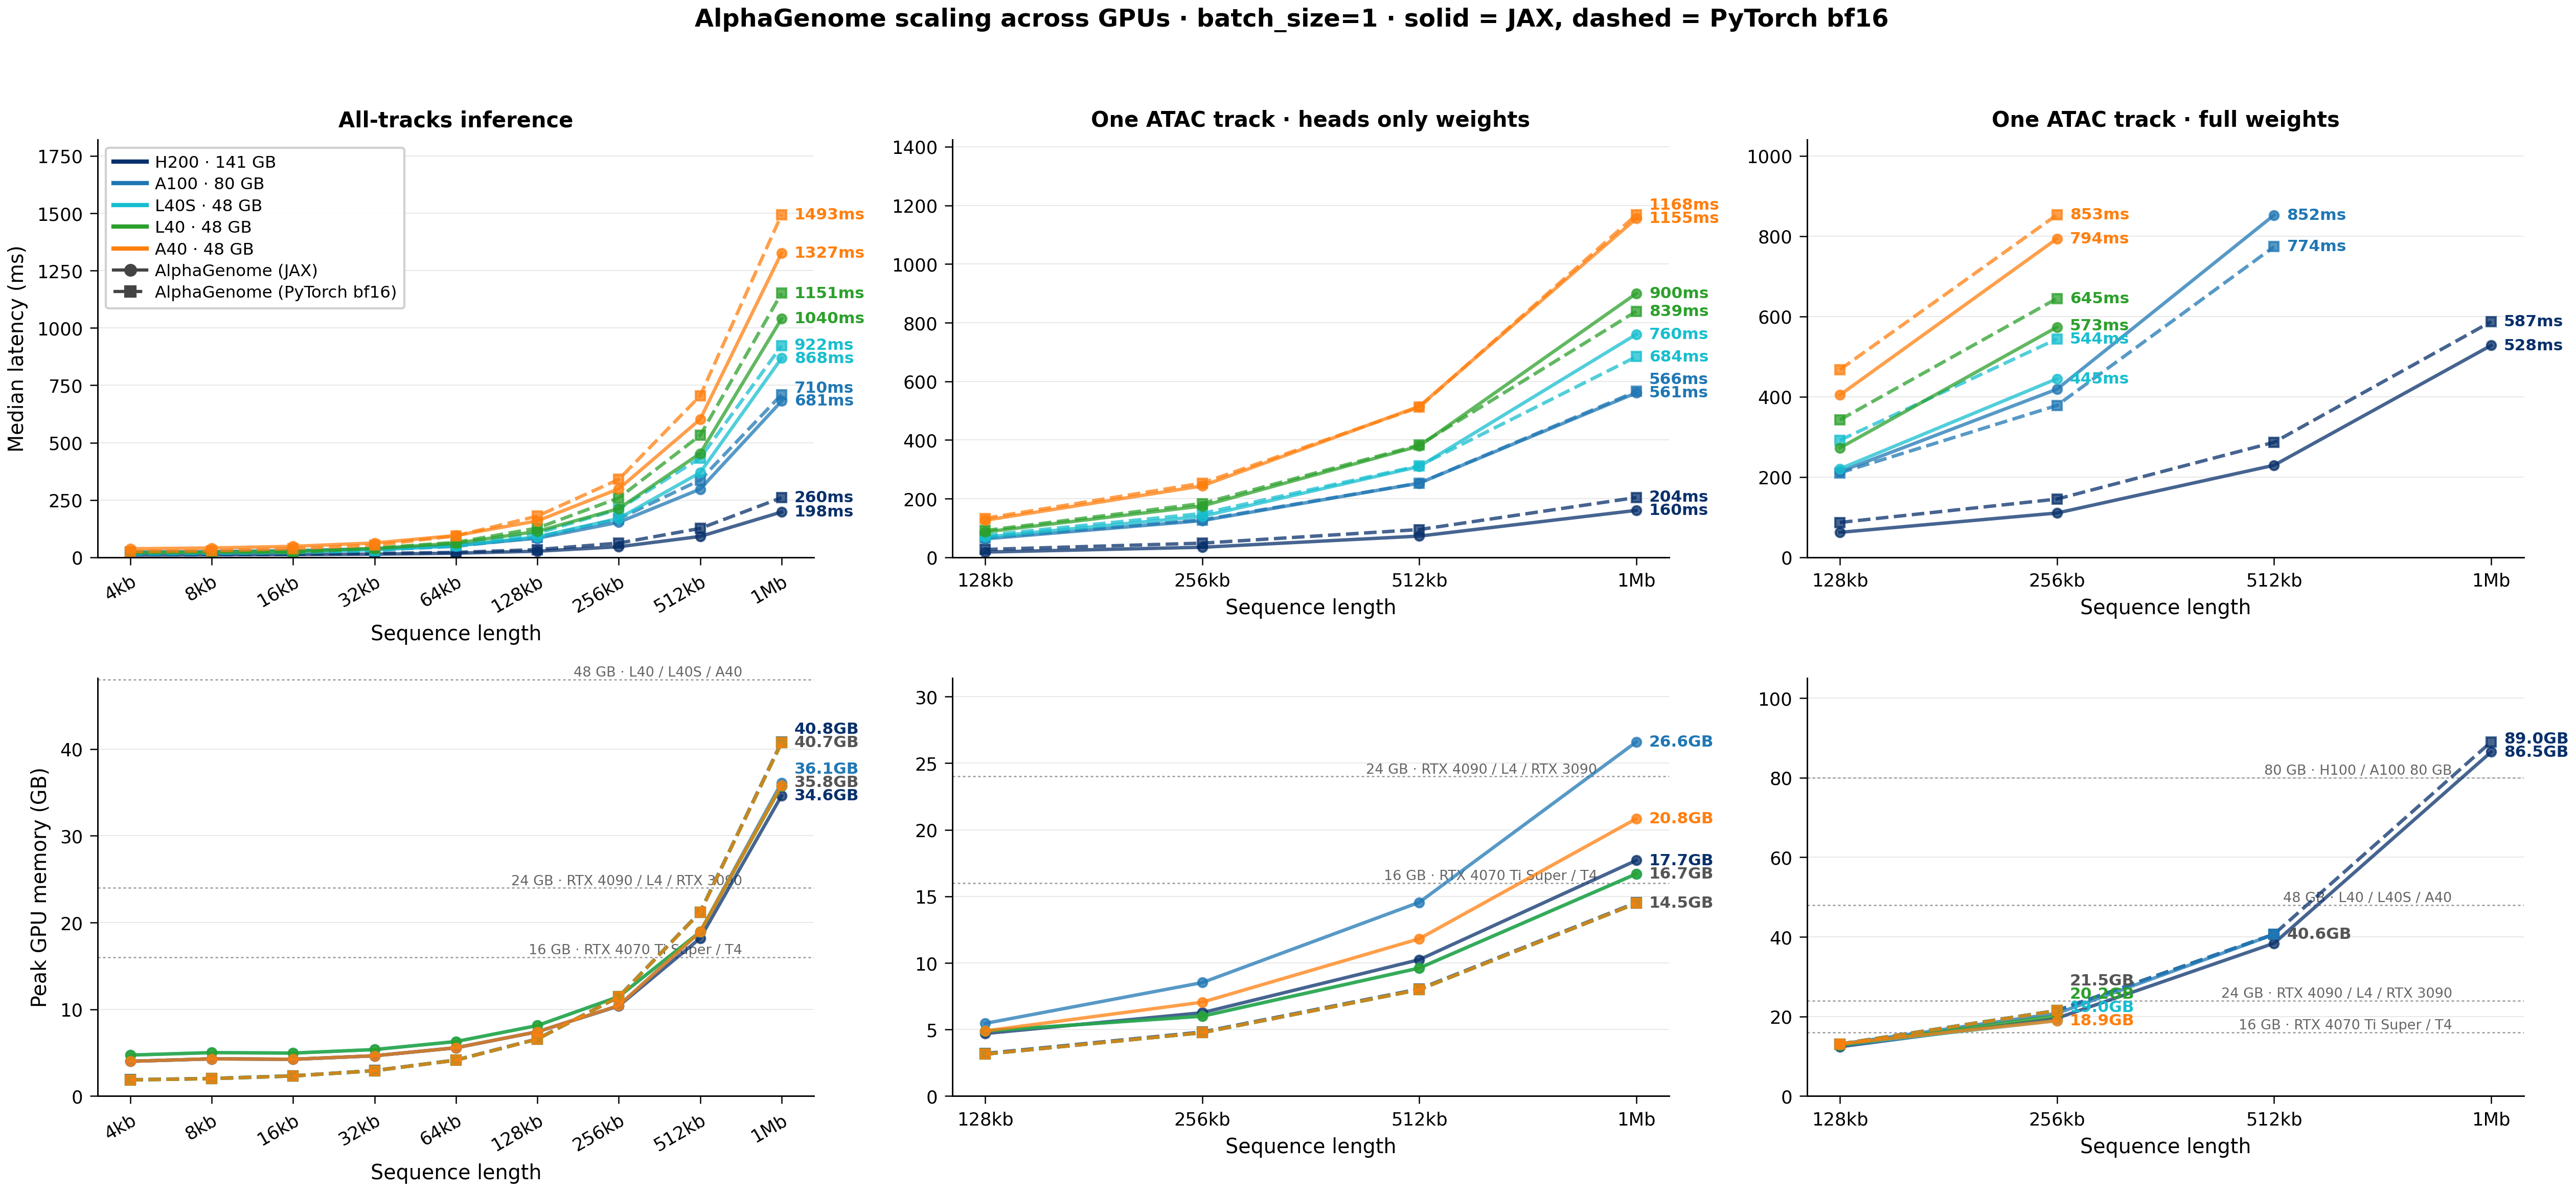
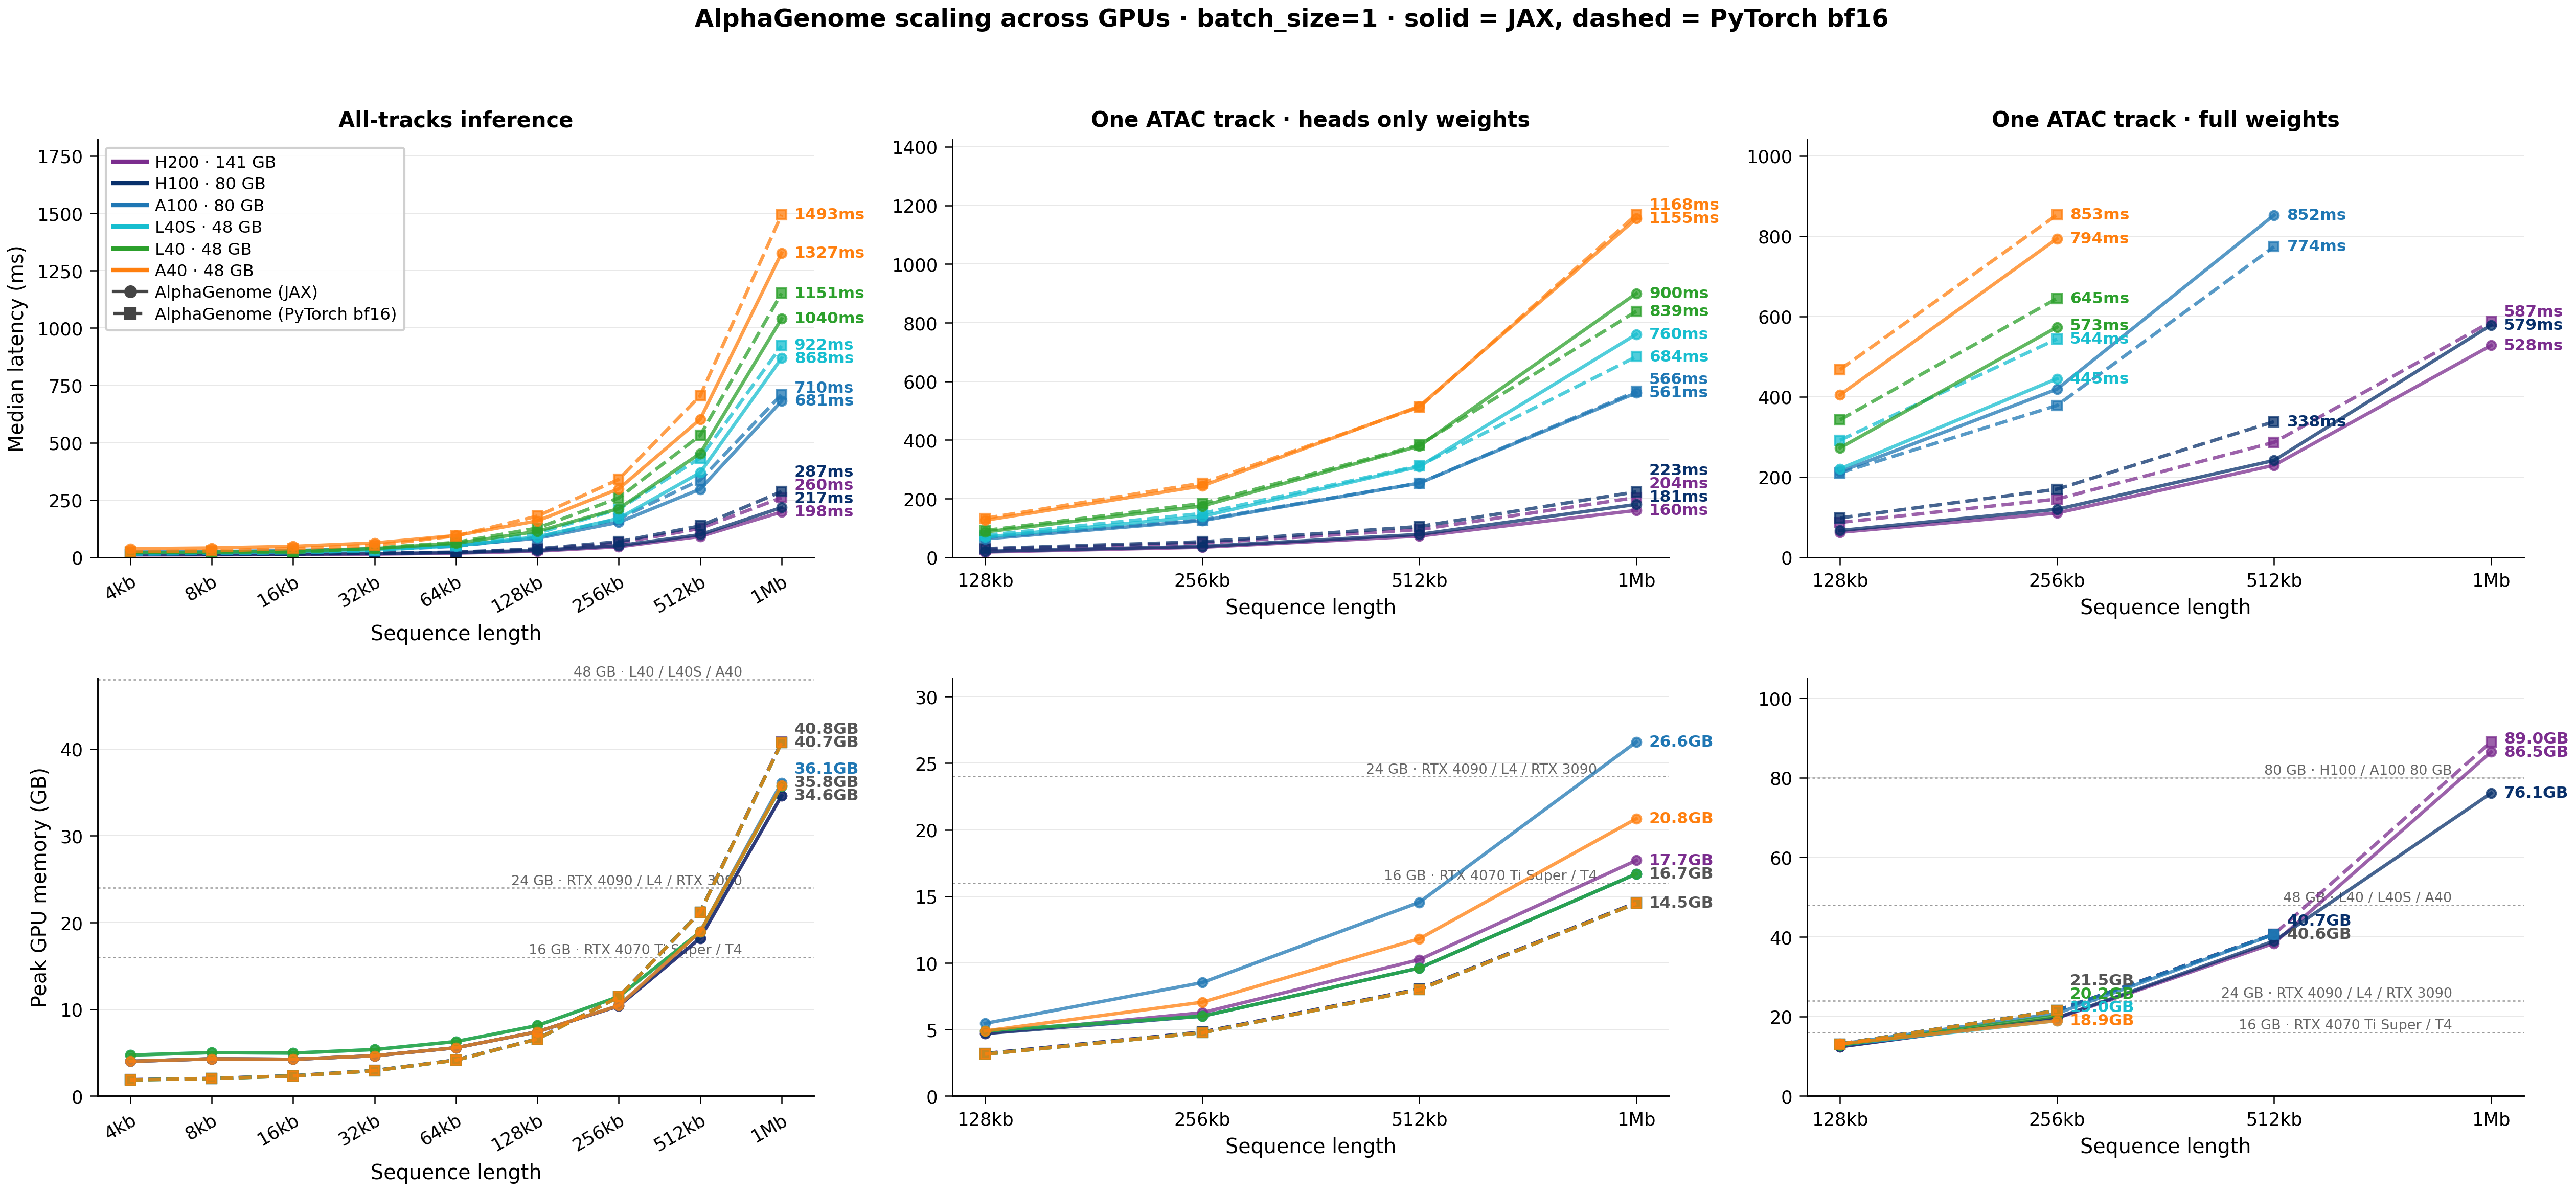
blog: replace benchmark post with main draft

diff --git a/content/blogs/2026-005/index.md b/content/blogs/2026-005/index.md
@@ -1,139 +1,284 @@
 ---
 post_id: "2026-005"
-title: "AlphaGenome inference in JAX and PyTorch: an apples-to-apples audit"
+title: "Benchmarking AlphaGenome on NVIDIA GPUs: latency, memory, and feasibility across sequence lengths"
 image: "cross_gpu_scaling.png"
 math: false
 
-authors: ["Xinming Tu"]
+authors: ["Xinming Tu", "Alejandro Buendia"]
 
 authors_display:
   - name: "Xinming Tu"
     affiliation: "University of Washington"
+  - name: "Alejandro Buendia"
+    affiliation: "Stanford University"
+    orcid: "0009-0001-6562-9876"
 
 editor: "Genomics X AI Editors"
 
-tags: ["genomics", "AlphaGenome", "JAX", "PyTorch", "benchmarking"]
+tags: ["genomics", "AlphaGenome", "JAX", "PyTorch", "benchmarking", "GPUs"]
 categories: ["Blog Post"]
 
 scope: ["insights"]
 audience: ["general"]
-labs: ["Genomics X AI"]
+labs: ["Kundaje lab"]
 
 status: "submitted"
-revision: 1
+revision: 2
 
-date_submitted: 2026-04-18
+date_submitted: 2026-04-12
 date_accepted:
-date: 2026-04-18
+date: 2026-04-15
 
 doi: ""
 revision_history:
   - version: 1
-    date: 2026-04-18
-    notes: "Initial submission"
+    date: 2026-04-12
+    notes: "Initial benchmark draft"
+  - version: 2
+    date: 2026-04-15
+    notes: "Updated with H100 results"
 ---
 
 {{< summary >}}
-This post revisits AlphaGenome inference benchmarking after fixing an invalid comparison in the PyTorch timing path.
+[AlphaGenome](https://deepmind.google/discover/blog/alphagenome-a-foundation-model-for-genome-biology/) pushes genomic modeling to sequence lengths up to `1 Mb`, but practical adoption still comes down to a simple question: what fits on the GPU you actually have, and how long will it take?
 
-The refreshed April 6-9, 2026 runs show that the old shorthand claim that "PyTorch is 2-3x slower than JAX" no longer holds. On the updated benchmark, JAX is still clearly faster on `H200`, and it is usually faster from `128 kb` onward on `A100`, `L40S`, `L40`, and `A40`, but the gap is much smaller and short-context results are often mixed.
+This post benchmarks the official JAX implementation and the community PyTorch port across seven NVIDIA GPUs: `H200 (141 GB)`, `H100 (80 GB)`, `A100 (80 GB)`, `L40S (48 GB)`, `L40 (48 GB)`, `A40 (48 GB)`, and `RTX 6000 (24 GB)`. We report inference, heads-only finetuning, and full-weights finetuning on real genomic workloads.
 
-The practical conclusion is that the comparison is now good enough to use as an inference runtime audit, with the remaining caveat that this is still an official JAX implementation versus a community PyTorch port rather than a bitwise equivalence study.
+Key takeaways:
+
+* Inference up to `1 Mb` is feasible on every tested GPU from `48 GB` upward; `1 Mb` typically requires about `35-41 GB` of peak memory
+* Heads-only finetuning fits on every tested GPU up to `1 Mb`, making it the accessible adaptation path for most labs
+* Full-weights finetuning is memory-bound: `1 Mb` is comfortable on `H200`, borderline on `H100`, reaches `524 kb` on `80 GB` cards otherwise, and tops out at `262 kb` on `48 GB` cards
+* Above about `131 kb`, memory scaling is close to linear for all three workloads
 {{< /summary >}}
 
 ---
 
-## Why rerun the benchmark?
+## Overview
 
-Our earlier benchmarking compared the native [JAX AlphaGenome implementation](https://github.com/google-deepmind/alphagenome_research) against [alphagenome-pytorch](https://github.com/genomicsxai/alphagenome-pytorch), but one detail made the comparison unfair: the PyTorch runner was timing backbone embeddings without registering the full reference output heads, while the JAX path was timing full prediction heads.
+[AlphaGenome](https://deepmind.google/discover/blog/alphagenome-a-foundation-model-for-genome-biology/) is a 450-million-parameter foundation model for genome biology released by Google DeepMind. It processes DNA sequences up to `1 Mb` and predicts thousands of genomic tracks, from chromatin accessibility to 3D contact maps, at base-pair resolution. The official implementation is in JAX; a [community PyTorch port](https://github.com/kundajelab/alphagenome-pytorch) makes the model accessible to the broader PyTorch ecosystem. We are contributors to that PyTorch port.
 
-That is the main reason the older benchmark overstated the latency gap. The PyTorch launch post on this site focused on model parity, usability, and downstream workflows rather than this runtime issue, so this note is meant as a focused correction to the inference-performance story.
+This post is a community reference: if you want to run AlphaGenome and are trying to figure out what fits on the GPU you have and how long it will take, this is where we share the numbers. We profile both the official JAX path (`alphagenome-jax`) and the community PyTorch port (`alphagenome-pytorch`, running in bf16) across seven NVIDIA GPUs under three workloads: inference, heads-only finetuning, and full-weights finetuning, each on real genomic data.
+
+## Motivation
+
+Researchers adapting AlphaGenome to their own tasks face a concrete planning question: "my lab has GPU X, what sequence lengths can I run, how long will each iteration take, and how much memory do I need to budget?" That question is hard to answer without running the model yourself, and the GPU landscape in academic clusters is diverse. Not every group has access to H200s or even A100s.
+
+We ran controlled, reproducible benchmarks across the GPU tiers most commonly found in academic and cloud environments to make that question easier to answer. Both the official JAX implementation and the community PyTorch port are profiled so that the results are useful regardless of which path a lab is already using. Every number in this post comes from published, tracked benchmark runs that can be reproduced from [our profiling repository](https://github.com/XinmingTu/genomic-model-profiling).
+
+## Benchmark Setup
+
+### Models
+
+* `alphagenome-jax`: the official DeepMind JAX/Haiku implementation, compiled with `@jax.jit`
+* `alphagenome-pytorch`: the community PyTorch port from the Kundaje Lab, compiled with `torch.compile` and bf16 autocast
+* [Borzoi](https://github.com/calico/borzoi) is also benchmarked at its supported sequence lengths (`256 kb` and `512 kb`) in the same published bundle as a reference point; see [Also published: Borzoi](#also-published-borzoi)
+
+### GPUs
+
+We test on seven NVIDIA GPUs spanning Turing, Ampere, Ada Lovelace, and Hopper architectures:
+
+| GPU | Memory | Architecture | Compute Capability |
+| --- | ---: | --- | ---: |
+| H200 | 141 GB | Hopper | 9.0 |
+| H100 | 80 GB | Hopper | 9.0 |
+| A100 | 80 GB | Ampere | 8.0 |
+| L40S | 48 GB | Ada Lovelace | 8.9 |
+| L40 | 48 GB | Ada Lovelace | 8.9 |
+| A40 | 48 GB | Ampere | 8.6 |
+| RTX 6000 | 24 GB | Turing | 7.5 |
+
+Most benchmarks run on the University of Washington Hyak cluster; the H100 runs were collected on Stanford's Marlowe cluster. Full hardware and software details are recorded in the profiling repo's [platform JSON descriptors](https://github.com/XinmingTu/genomic-model-profiling/tree/main/published/platforms).
+
+### Methodology
+
+* Batch size: `1`
+* Warmup: `3` iterations, discarded
+* Timed: `10` iterations, median latency reported
+* Sequence lengths: `4 kb`, `8 kb`, `16 kb`, `32 kb`, `65 kb`, `131 kb`, `262 kb`, `524 kb`, and `1 Mb`
+* Inference input: random one-hot DNA
+* Finetuning input: real `GM12878` matched-ATAC data, using a single ATAC-seq track, in both heads-only and full-weights modes
+
+Both implementations include full prediction heads in the timed path so that the numbers reflect end-to-end model cost. The exact alignment between the two is documented in our [apples-to-apples audit](https://github.com/XinmingTu/genomic-model-profiling/blob/main/docs/alphagenome_jax_vs_pytorch.md).
+
+## Inference
+
+Inference is the simplest workload: a single compiled forward pass through the full model including prediction heads, with no gradient computation.
+
+### Latency
+
+At `1 Mb`, inference latency spans roughly an order of magnitude across the tested GPUs, from about `200 ms` on `H200` to about `1.3-1.5 s` on `A40`, with `RTX 6000` unable to fit the full `1 Mb` context. Scaling with sequence length is close to linear above about `131 kb`: doubling the context roughly doubles latency. The two implementations produce similar numbers on most GPUs, with the JAX path running a bit faster on Hopper-class hardware; at shorter contexts (`<=65 kb`) the two paths are close to interchangeable.
+
+| GPU | Framework | 131 kb | 262 kb | 524 kb | 1 Mb |
+| --- | --- | ---: | ---: | ---: | ---: |
+| H200 141 GB | alphagenome-jax | 26.8 | 46.1 | 91.2 | 197.6 |
+| H200 141 GB | alphagenome-pytorch | 33.9 | 62.1 | 126.1 | 260.0 |
+| H100 80 GB | alphagenome-jax | 30.2 | 51.0 | 99.0 | 217.2 |
+| H100 80 GB | alphagenome-pytorch | 37.1 | 68.4 | 136.9 | 286.7 |
+| A100 80 GB | alphagenome-jax | 83.3 | 152.8 | 297.3 | 681.1 |
+| A100 80 GB | alphagenome-pytorch | 87.0 | 168.0 | 336.9 | 709.7 |
+| L40S 48 GB | alphagenome-jax | 89.6 | 169.7 | 369.3 | 868.2 |
+| L40S 48 GB | alphagenome-pytorch | 104.9 | 209.9 | 432.7 | 922.2 |
+| L40 48 GB | alphagenome-jax | 113.2 | 212.5 | 453.2 | 1040.1 |
+| L40 48 GB | alphagenome-pytorch | 127.6 | 258.9 | 531.6 | 1151.3 |
+| A40 48 GB | alphagenome-jax | 158.9 | 298.7 | 601.7 | 1326.7 |
+| A40 48 GB | alphagenome-pytorch | 179.7 | 339.9 | 704.0 | 1493.4 |
+| RTX 6000 24 GB | alphagenome-pytorch | 1153.3 | 2298.6 | 4742.9 | — |
+
+The RTX 6000 is a special case: JAX bf16 is not supported on Turing (`compute capability 7.5`), so only the PyTorch path runs there. It is also the only tested card that cannot reach `1 Mb` inference.
+
+### Peak GPU memory
+
+Inference memory is dominated by activations and scales close to linearly with sequence length above about `131 kb`: doubling the context roughly doubles peak memory. At `1 Mb`, inference fits in about `35-41 GB` depending on the implementation, which is what makes `1 Mb` inference feasible on every `48 GB`-and-up card we tested. Below `131 kb`, the PyTorch path has the smaller footprint; above `262 kb`, the JAX path runs a bit leaner.
+
+| GPU | Framework | 131 kb | 262 kb | 524 kb | 1 Mb |
+| --- | --- | ---: | ---: | ---: | ---: |
+| H200 141 GB | alphagenome-jax | 7.4 | 10.4 | 18.2 | 34.6 |
+| H200 141 GB | alphagenome-pytorch | 6.6 | 11.5 | 21.2 | 40.8 |
+| H100 80 GB | alphagenome-jax | 7.4 | 10.4 | 18.2 | 34.6 |
+| H100 80 GB | alphagenome-pytorch | 6.6 | 11.5 | 21.2 | 40.8 |
+| A100 80 GB | alphagenome-jax | 7.4 | 10.4 | 18.9 | 36.1 |
+| A100 80 GB | alphagenome-pytorch | 6.6 | 11.4 | 21.2 | 40.7 |
+| L40S 48 GB | alphagenome-jax | 8.1 | 11.5 | 18.9 | 35.8 |
+| L40S 48 GB | alphagenome-pytorch | 6.6 | 11.4 | 21.2 | 40.7 |
+| L40 48 GB | alphagenome-jax | 8.1 | 11.5 | 18.9 | 35.8 |
+| L40 48 GB | alphagenome-pytorch | 6.6 | 11.4 | 21.2 | 40.7 |
+| A40 48 GB | alphagenome-jax | 7.4 | 10.4 | 18.9 | 35.8 |
+| A40 48 GB | alphagenome-pytorch | 6.6 | 11.4 | 21.2 | 40.7 |
+| RTX 6000 24 GB | alphagenome-pytorch | 4.8 | 7.3 | 12.5 | — |
+
+Peak memory at a given sequence length is nearly identical across GPUs for the same implementation, which means the memory column of this table is a reasonable estimate for untested GPUs too.
+
+![Cross-GPU inference and finetuning scaling](cross_gpu_scaling.png "width=1100 Cross-GPU AlphaGenome benchmarking summary including inference, heads-only finetuning, and full-weights finetuning across H200, H100, A100, L40S, L40, A40, and RTX 6000.")
+
+## Heads-Only Finetuning
+
+Heads-only finetuning freezes the AlphaGenome backbone and trains only the task-specific prediction head. This is the most memory-efficient way to adapt the model and is practical on every GPU we tested, up to the full `1 Mb` context.
+
+All finetuning benchmarks use a single `GM12878` ATAC-seq track as the training target, a realistic setting for labs working with a specific assay in a specific cell type.
+
+### Latency
+
+Heads-only iterations are a little cheaper than a full inference pass: the backbone runs only forward, and only the prediction-head gradients are computed. At `1 Mb`, expect roughly `160-205 ms` on `H200`, `180-224 ms` on `H100`, about `560 ms` on `A100`, `700-1200 ms` on the `48 GB` cards, and about `4.8 s` on `RTX 6000` at `524 kb`. The two implementations sit within a narrow band on most GPUs.
+
+| GPU | Framework | 131 kb | 262 kb | 524 kb | 1 Mb |
+| --- | --- | ---: | ---: | ---: | ---: |
+| H200 141 GB | alphagenome-jax | 18.0 | 34.4 | 72.5 | 160.2 |
+| H200 141 GB | alphagenome-pytorch | 26.9 | 48.4 | 94.8 | 204.0 |
+| H100 80 GB | alphagenome-jax | 20.5 | 37.1 | 78.2 | 180.5 |
+| H100 80 GB | alphagenome-pytorch | 29.7 | 53.1 | 105.1 | 223.5 |
+| A100 80 GB | alphagenome-jax | 63.0 | 125.2 | 253.0 | 560.9 |
+| A100 80 GB | alphagenome-pytorch | 67.2 | 127.9 | 253.2 | 565.6 |
+| L40S 48 GB | alphagenome-jax | 69.1 | 139.9 | 309.6 | 760.5 |
+| L40S 48 GB | alphagenome-pytorch | 75.1 | 149.6 | 312.3 | 684.1 |
+| L40 48 GB | alphagenome-jax | 86.7 | 175.0 | 379.5 | 899.8 |
+| L40 48 GB | alphagenome-pytorch | 91.5 | 183.8 | 382.9 | 839.0 |
+| A40 48 GB | alphagenome-jax | 126.5 | 243.6 | 514.8 | 1155.2 |
+| A40 48 GB | alphagenome-pytorch | 133.1 | 253.2 | 512.0 | 1167.9 |
+| RTX 6000 24 GB | alphagenome-pytorch | 1138.4 | 2317.3 | 4789.5 | — |
+
+### Peak GPU memory
+
+Heads-only is by far the lightest finetuning mode. `1 Mb` peaks at about `14-27 GB` depending on implementation and GPU, so every card we tested, down to the `24 GB` RTX 6000 at `524 kb`, has headroom for this workload.
+
+| GPU | Framework | 131 kb | 262 kb | 524 kb | 1 Mb |
+| --- | --- | ---: | ---: | ---: | ---: |
+| H200 141 GB | alphagenome-jax | 4.7 | 6.3 | 10.2 | 17.7 |
+| H200 141 GB | alphagenome-pytorch | 3.2 | 4.8 | 8.0 | 14.5 |
+| H100 80 GB | alphagenome-jax | 4.7 | 6.0 | 9.6 | 16.7 |
+| H100 80 GB | alphagenome-pytorch | 3.2 | 4.8 | 8.0 | 14.5 |
+| A100 80 GB | alphagenome-jax | 5.5 | 8.5 | 14.5 | 26.6 |
+| A100 80 GB | alphagenome-pytorch | 3.1 | 4.8 | 8.0 | 14.5 |
+| L40S 48 GB | alphagenome-jax | 4.9 | 6.0 | 9.6 | 16.7 |
+| L40S 48 GB | alphagenome-pytorch | 3.1 | 4.8 | 8.0 | 14.5 |
+| L40 48 GB | alphagenome-jax | 4.9 | 6.0 | 9.6 | 16.7 |
+| L40 48 GB | alphagenome-pytorch | 3.1 | 4.8 | 8.0 | 14.5 |
+| A40 48 GB | alphagenome-jax | 4.9 | 7.1 | 11.8 | 20.8 |
+| A40 48 GB | alphagenome-pytorch | 3.1 | 4.8 | 8.0 | 14.5 |
+| RTX 6000 24 GB | alphagenome-pytorch | 4.1 | 6.7 | 11.8 | — |
+
+## Full-Weights Finetuning
+
+Full-weights finetuning updates all `450 million` parameters. This gives the model more capacity to adapt but comes at a steep memory cost: gradients and optimizer states for the entire backbone must fit in GPU memory.
+
+### Latency
+
+Full-weights iterations are the most expensive workload. The missing entries in the table are as important as the numbers because they mark where each `(GPU, implementation)` pair runs out of memory.
+
+| GPU | Framework | 131 kb | 262 kb | 524 kb | 1 Mb |
+| --- | --- | ---: | ---: | ---: | ---: |
+| H200 141 GB | alphagenome-jax | 62.3 | 110.4 | 229.4 | 527.8 |
+| H200 141 GB | alphagenome-pytorch | 86.9 | 145.2 | 286.6 | 587.0 |
+| H100 80 GB | alphagenome-jax | 66.9 | 119.7 | 241.5 | 578.6 |
+| H100 80 GB | alphagenome-pytorch | 98.2 | 169.8 | 337.9 | — |
+| A100 80 GB | alphagenome-jax | 213.2 | 418.8 | 852.5 | — |
+| A100 80 GB | alphagenome-pytorch | 210.4 | 378.3 | 773.7 | — |
+| L40S 48 GB | alphagenome-jax | 220.5 | 444.9 | — | — |
+| L40S 48 GB | alphagenome-pytorch | 291.7 | 543.9 | — | — |
+| L40 48 GB | alphagenome-jax | 272.6 | 573.4 | — | — |
+| L40 48 GB | alphagenome-pytorch | 342.5 | 644.8 | — | — |
+| A40 48 GB | alphagenome-jax | 404.4 | 793.8 | — | — |
+| A40 48 GB | alphagenome-pytorch | 467.6 | 853.2 | — | — |
+
+The practical feasibility picture is simple: `48 GB` GPUs top out at `262 kb` for full-weights finetuning, `80 GB` cards reach `524 kb`, and `1 Mb` requires either `H200` or an `H100` using the JAX path.
+
+### Peak GPU memory
+
+Full-weights peak memory roughly doubles with each doubling of sequence length above about `131 kb`, mirroring the latency pattern. At `1 Mb`, expect about `76-89 GB` of peak memory.
+
+| GPU | Framework | 131 kb | 262 kb | 524 kb | 1 Mb |
+| --- | --- | ---: | ---: | ---: | ---: |
+| H200 141 GB | alphagenome-jax | 12.4 | 19.6 | 38.4 | 86.5 |
+| H200 141 GB | alphagenome-pytorch | 13.1 | 21.5 | 40.7 | 89.0 |
+| H100 80 GB | alphagenome-jax | 12.4 | 19.7 | 39.0 | 76.1 |
+| H100 80 GB | alphagenome-pytorch | 13.1 | 21.5 | 40.7 | — |
+| A100 80 GB | alphagenome-jax | 13.1 | 20.8 | 40.6 | — |
+| A100 80 GB | alphagenome-pytorch | 13.0 | 21.5 | 40.6 | — |
+| L40S 48 GB | alphagenome-jax | 12.8 | 19.0 | — | — |
+| L40S 48 GB | alphagenome-pytorch | 13.0 | 21.5 | — | — |
+| L40 48 GB | alphagenome-jax | 12.8 | 20.2 | — | — |
+| L40 48 GB | alphagenome-pytorch | 13.0 | 21.5 | — | — |
+| A40 48 GB | alphagenome-jax | 13.1 | 18.9 | — | — |
+| A40 48 GB | alphagenome-pytorch | 13.0 | 21.5 | — | — |
+
+In short, full-weights finetuning of AlphaGenome at `1 Mb` is a Hopper-class workload today, and even there the `80 GB` tier is on the margin.
+
+## What Fits on Each GPU
+
+| GPU | Inference | Heads-only finetune | Full-weights finetune |
+| --- | --- | --- | --- |
+| H200 141 GB | 1 Mb | 1 Mb | 1 Mb |
+| H100 80 GB | 1 Mb | 1 Mb | 1 Mb (JAX only) / 524 kb (PyTorch) |
+| A100 80 GB | 1 Mb | 1 Mb | 524 kb |
+| L40S 48 GB | 1 Mb | 1 Mb | 262 kb |
+| L40 48 GB | 1 Mb | 1 Mb | 262 kb |
+| A40 48 GB | 1 Mb | 1 Mb | 262 kb |
+| RTX 6000 24 GB | 524 kb (PyTorch only) | 524 kb (PyTorch only) | not tested |
+
+A few practical notes:
+
+* Inference and heads-only finetuning are broadly accessible. Every card from `48 GB` upward runs both at the full `1 Mb` context; even the `24 GB` RTX 6000 reaches `524 kb`
+* Full-weights finetune is the memory bottleneck. If your task calls for full-weights updates and long contexts, plan for `H200` access or stay at `<=524 kb`
+* On RTX 6000 and other Turing-class cards, JAX bf16 is not supported, so only the PyTorch path runs
+* For most workflow decisions, ecosystem familiarity and training-infrastructure fit matter more than modest latency differences
+
+### Also published: Borzoi
+
+The same benchmark harness also profiles [Borzoi](https://github.com/calico/borzoi) at its supported `256 kb` and `524 kb` contexts. Borzoi inference, heads-only finetune, and full-weights finetune numbers across the same GPUs are included in the published CSVs and figures for readers who want a second reference model at those sequence lengths.
+
+## Resources
+
+* Profiling repository: [github.com/XinmingTu/genomic-model-profiling](https://github.com/XinmingTu/genomic-model-profiling)
+* Published CSV data: [`published/data/`](https://github.com/XinmingTu/genomic-model-profiling/tree/main/published/data)
+* Platform metadata: [`published/platforms/`](https://github.com/XinmingTu/genomic-model-profiling/tree/main/published/platforms)
+* Apples-to-apples audit: [`docs/alphagenome_jax_vs_pytorch.md`](https://github.com/XinmingTu/genomic-model-profiling/blob/main/docs/alphagenome_jax_vs_pytorch.md)
+* AlphaGenome PyTorch port: [github.com/kundajelab/alphagenome-pytorch](https://github.com/kundajelab/alphagenome-pytorch)
+* AlphaGenome official announcement: [Google DeepMind blog post](https://deepmind.google/discover/blog/alphagenome-a-foundation-model-for-genome-biology/)
+
+## Acknowledgements
+
+Thanks to the [Genomics x AI](https://genomicsxai.github.io/) community and the Kundaje Lab at Stanford, where the AlphaGenome PyTorch port is developed. Benchmarks were run on the University of Washington Hyak cluster and Stanford's Marlowe cluster (`H100`).
 
 ---
 
-## What is aligned now?
-
-The updated benchmark is much closer to an apples-to-apples runtime comparison:
-
-* Same benchmark mode: inference only, `batch_size=1`, `3` warmup iterations, `10` timed iterations, and median latency reporting
-* Same output scope: both frameworks benchmark full prediction-head work instead of timing only intermediate embeddings
-* Same compiled execution intent: JAX runs under `@jax.jit`; PyTorch runs under `torch.compile` with bf16 autocast
-* Same organism selection during timing: both paths use `organism_index=0`
-* Same broad context sweep on supported cards: `4 kb` through `1 Mb` where the GPU fits the workload
-
-The refreshed published inference runs are:
-
-* `hyak_h200_141gb`: `20260409_a4c2c09_full_heads_inference`
-* `hyak_a100_80gb`: `20260407_f1420a5_apple_to_apple_baseline`
-* `hyak_l40s_48gb`: `20260407_f1420a5_apple_to_apple_baseline`
-* `hyak_l40_48gb`: `20260407_f1420a5_apple_to_apple_baseline`
-* `hyak_a40_48gb`: `20260407_f1420a5_apple_to_apple_baseline`
-* `hyak_rtx6k_24gb`: `20260407_f1420a5_apple_to_apple_baseline`
-
----
-
-## Latest published result summary
-
-The table below summarizes the currently published inference comparison. Ratios are reported as **PyTorch / JAX** over the sequence lengths both frameworks completed on that GPU:
-
-| GPU | Common seq lengths | Latency ratio | Memory ratio | Read |
-| --- | --- | --- | --- | --- |
-| `H200 141 GB` | `4 kb` to `1 Mb` | `1.14x` to `1.38x` | `0.47x` to `1.18x` | JAX is faster throughout; memory crosses over by `256 kb` |
-| `A100 80 GB` | `4 kb` to `1 Mb` | `0.84x` to `1.13x` | `0.47x` to `1.13x` | Mixed at short contexts; JAX is faster from `128 kb` onward |
-| `L40S 48 GB` | `4 kb` to `1 Mb` | `0.68x` to `1.24x` | `0.39x` to `1.14x` | Mixed at short contexts; JAX is faster from `128 kb` onward |
-| `L40 48 GB` | `4 kb` to `1 Mb` | `0.77x` to `1.22x` | `0.39x` to `1.14x` | Mixed at short contexts; JAX is faster from `128 kb` onward |
-| `A40 48 GB` | `4 kb` to `1 Mb` | `0.67x` to `1.17x` | `0.46x` to `1.14x` | Mixed at short contexts; JAX is faster from `128 kb` onward |
-| `RTX 6000 24 GB` | PyTorch only | n/a | n/a | No JAX bf16 comparison on this card |
-
-The previous one-line story that PyTorch is always dramatically slower is therefore no longer supported by the currently published runs. The updated picture is more nuanced: the biggest, cleanest JAX advantage appears on `H200`, while `A100` and the `48 GB` cards show mixed short-context behavior before JAX pulls ahead at longer contexts.
-
-![AlphaGenome scaling across GPUs](cross_gpu_scaling.png "width=1100 Updated cross-GPU benchmark summary for AlphaGenome inference and matched-ATAC fine-tuning. For the inference panel, solid lines are JAX and dashed lines are PyTorch bf16.")
-
-The `H200` rerun is the clearest example of the corrected comparison. Once full prediction heads are included on both sides, JAX remains faster across the whole `4 kb` to `1 Mb` sweep, but the gap is far smaller than the older benchmark implied.
-
-![H200 inference detail](hyak_h200_141gb_inference.png "width=1100 Updated H200 inference latency and peak-memory curves for AlphaGenome JAX, AlphaGenome PyTorch bf16, and Borzoi.")
-
----
-
-## What is still not perfectly identical?
-
-Even after this correction, the benchmark is still not a perfect implementation-level equivalence test:
-
-* The JAX path is the official DeepMind implementation, while the PyTorch path is a community port
-* JAX times a prebuilt bf16 one-hot tensor of shape `(batch, seq, 4)`, while PyTorch times prebuilt integer token IDs of shape `(batch, seq)`
-* Software stacks still differ by platform, so cross-GPU interpretation should always be tied to the recorded environment for each run
-
-Those caveats matter if you care about exact implementation identity. They matter much less if your question is the practical one: "How do compiled end-to-end AlphaGenome inference workloads behave on current NVIDIA GPUs?"
-
----
-
-## Bottom line
-
-For inference performance, the updated benchmark is now valid enough to call a practical apples-to-apples audit:
-
-* both sides execute compiled AlphaGenome inference
-* both sides include prediction-head work
-* both sides are timed over the same sequence lengths whenever the GPU can support them
-
-The current readout is:
-
-* `H200`: JAX is faster throughout the published `4 kb` to `1 Mb` sweep
-* `A100`, `L40S`, `L40`, and `A40`: short contexts are mixed, but JAX is faster on the `128 kb` to `1 Mb` range shown here
-* Peak memory is no longer a simple "PyTorch is leaner" story; it crosses over with context length and GPU tier
-
-That moves the main caveat away from "this benchmark is unfair" and toward the more honest interpretation: these are two different implementations of the same model family, benchmarked under much better workload parity than before.
-
----
-
-## Further reading
-
-* [Porting AlphaGenome to PyTorch](https://genomicsxai.github.io/blogs/2026-004/)
-* [alphagenome-pytorch](https://github.com/genomicsxai/alphagenome-pytorch)
-* [AlphaGenome Research (JAX)](https://github.com/google-deepmind/alphagenome_research)
-
----
-
-## References
-
-1. Avsec, Ž. et al. Advancing regulatory variant effect prediction with AlphaGenome. *Nature* **649** (2026).
-2. Danila Bredikhin, Alejandro Buendia, Martin Kjellberg, Christopher Zou, Xinming Tu, Anshul Kundaje. "Porting AlphaGenome to PyTorch." *Genomics × AI Blog*, 10 March 2026. https://genomicsxai.github.io/blogs/2026-004/.
+*Benchmarks were collected April 6-14, 2026. Numbers reflect `batch_size=1`, median of `10` timed iterations after `3` warmup passes. Finetuning uses a single `GM12878` ATAC-seq track. Full methodology and reproducibility instructions are in the [profiling repository](https://github.com/XinmingTu/genomic-model-profiling).*